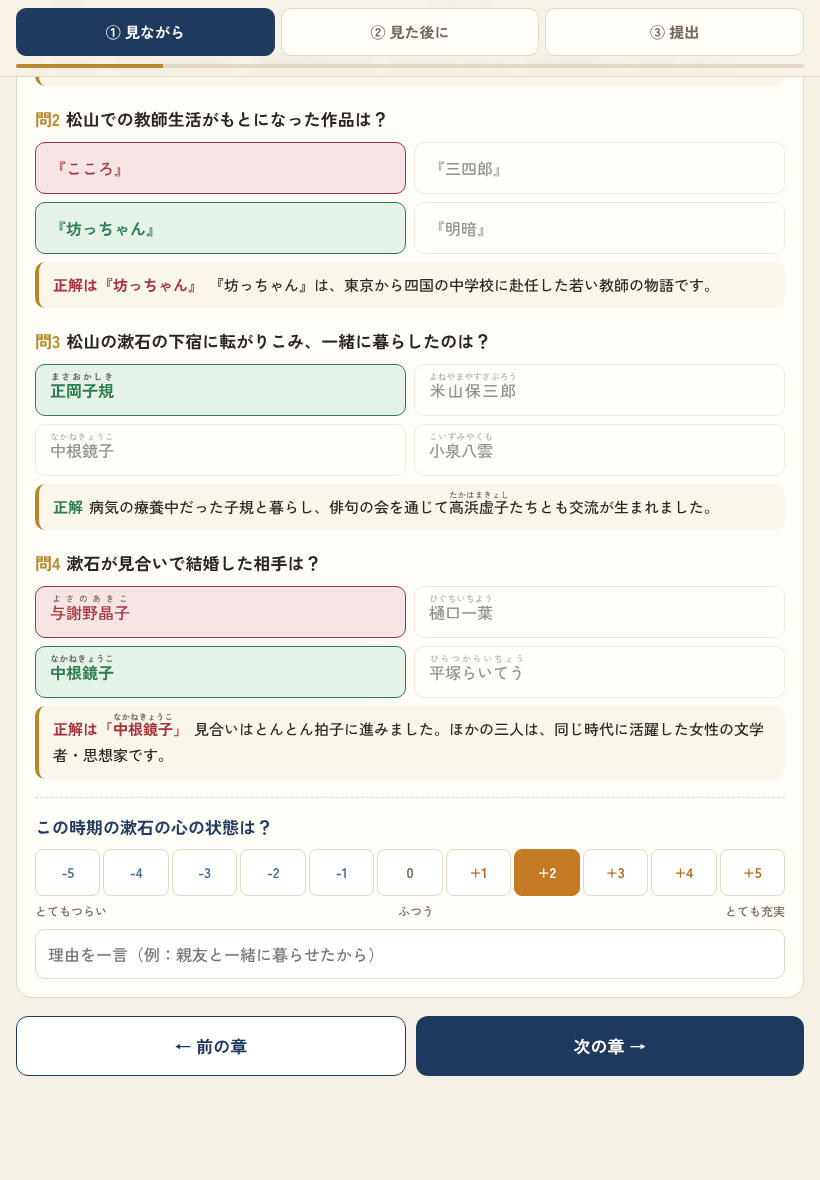
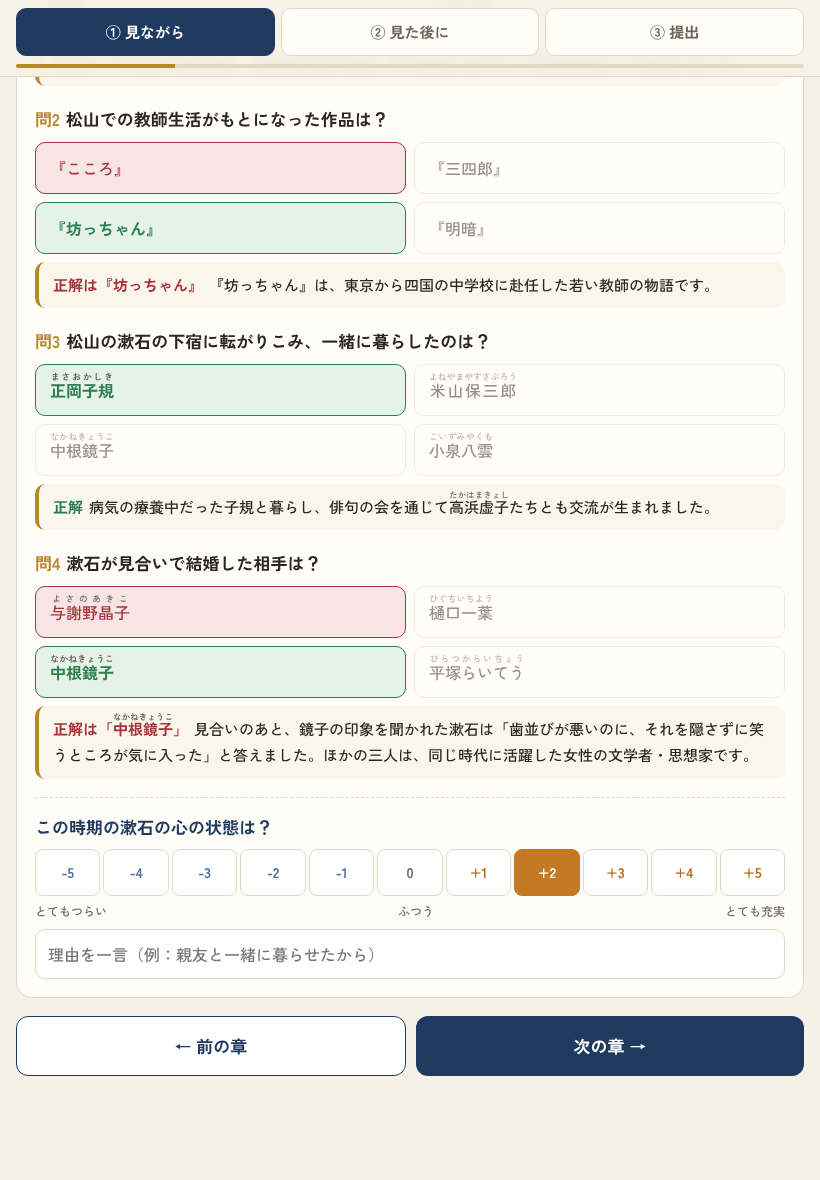
視聴ワーク：字幕と照らし合わせて解説を動画の内容に合わせる
Claude-Session: https://claude.ai/code/session_01WM2jdZUthiEr1RLJLs6qj2

Changed region(s): [[0.2744, 0.6102, 0.9451, 0.6712], [0.122, 0.6102, 0.1829, 0.6712]]

diff --git a/soseki.html b/soseki.html
@@ -210,7 +210,7 @@ const CHAPTERS = [
   {no:1, title:"イントロダクション", from:"0:00", to:"1:46", sec:0, mood:false, qs:[
     {q:"動画の最初に紹介された三つの作品の組み合わせは？",
      c:["『羅生門』『鼻』『蜘蛛の糸』","『吾輩は猫である』『坊っちゃん』『こころ』","『舞姫』『高瀬舟』『山椒大夫』","『走れメロス』『人間失格』『斜陽』"], a:1,
-     n:"『羅生門』は芥川龍之介、『舞姫』は森鷗外、『走れメロス』は太宰治の作品です。芥川は漱石に作品をほめられたことがきっかけで世に出ました。"},
+     n:"『羅生門』は芥川龍之介、『舞姫』は森鷗外、『走れメロス』は太宰治の作品です。漱石は、若き日の芥川の才能にいち早く気づき、励ましの言葉を送っています。"},
     {q:"『吾輩は猫である』の猫のモデルになった、漱石の家の猫について正しいものは？",
      c:["「タマ」と呼ばれてかわいがられた","正岡子規からもらった","名前がつけられていなかった","ロンドンから連れて帰った"], a:2,
      n:"作品の書き出し「吾輩は猫である。名前はまだ無い。」のとおり、実際の猫にも名前がありませんでした。"}
@@ -218,16 +218,16 @@ const CHAPTERS = [
   {no:2, title:"若き日の漱石", from:"1:46", to:"12:26", sec:106, mood:true, qs:[
     {q:"漱石が生まれたのは何年？",
      c:["1867年（慶応3年）","1868年（明治元年）","1872年（明治5年）","1889年（明治22年）"], a:0,
-     n:"江戸時代の最後の年です。翌年が明治元年なので、漱石の年齢は「明治何年」の数字とほぼ同じになります。"},
+     n:"大政奉還があった、江戸時代の最後の年です。翌年が明治元年なので、漱石の年齢は「明治何年」の数字とほぼ同じになります。"},
     {q:"幼いころの漱石について正しいものは？",
      c:["一人っ子として大切に育てられた","生まれてまもなく、よその家に出された","武士の家の長男として期待された","子どものころから英語を習っていた"], a:1,
      n:`里子や養子に出され、家族の愛情を感じにくい少年時代を過ごしました。心の支えは母・${r("千枝","ちえ")}でした。`},
     {q:`漱石に文学の道へ進むことを決めさせた、予備門時代の友人は？`,
      c:[YONE, SHIKI, KYOSHI, r("真鍋嘉一郎","まなべかいちろう")], a:0,
-     n:"「すぐれた文学作品は永遠に残る」という米山の言葉が、漱石の進路を決めました。"},
+     n:"「人の一生は一瞬だが、すぐれた文学作品の命は永遠である」という米山の言葉が、漱石の進路を決めました。"},
     {q:"ペンネーム「漱石」を、もともと使っていたのは誰？",
      c:[YONE, r("森鷗外","もりおうがい"), KYOSHI, SHIKI], a:3,
-     n:`子規から譲り受けた名前です。中国の故事「${r("漱石枕流","そうせきちんりゅう")}」から取られ、「負けおしみが強い・変わり者」という意味があります。`}
+     n:`子規から譲り受けた名前です。中国の故事「${r("漱石枕流","そうせきちんりゅう")}」から取られた名前で、負けおしみが強く頑固なことのたとえです。漱石は、自分の性格にぴったりだと思ったのでしょう。`}
   ]},
   {no:3, title:"松山での漱石", from:"12:26", to:"17:54", sec:746, mood:true, qs:[
     {q:"松山（愛媛県）で漱石が就いた仕事は？",
@@ -241,15 +241,15 @@ const CHAPTERS = [
      n:`病気の療養中だった子規と暮らし、俳句の会を通じて${KYOSHI}たちとも交流が生まれました。`},
     {q:"漱石が見合いで結婚した相手は？",
      c:[r("与謝野晶子","よさのあきこ"), r("樋口一葉","ひぐちいちよう"), KYOKO, r("平塚らいてう","ひらつからいちょう")], a:2,
-     n:"見合いはとんとん拍子に進みました。ほかの三人は、同じ時代に活躍した女性の文学者・思想家です。"}
+     n:"見合いのあと、鏡子の印象を聞かれた漱石は「歯並びが悪いのに、それを隠さずに笑うところが気に入った」と答えました。ほかの三人は、同じ時代に活躍した女性の文学者・思想家です。"}
   ]},
   {no:4, title:"熊本での漱石", from:"17:54", to:"20:33", sec:1074, mood:true, qs:[
     {q:"熊本で漱石が勤めた学校は？",
      c:["東京帝国大学","第五高等学校","松山中学校","早稲田大学"], a:1,
-     n:"「五高」と呼ばれた学校で、教授として安定した生活を送りました。"},
+     n:"「五高」と呼ばれた学校で、教授として安定した生活を送りました。のちの物理学者・寺田寅彦も、ここでの教え子です。"},
     {q:"熊本時代、若くして亡くなったことを知り、漱石が自分の生き方を問い直すきっかけになった友人は？",
      c:[SHIKI, KYOSHI, YONE, YAKUMO], a:2,
-     n:"文学の道を勧めてくれた米山は、まだ20代の若さで亡くなりました。"}
+     n:"文学の道を勧めてくれた米山は、29歳の若さで、腸チフスで亡くなりました。「米山が期待したような生き方を、自分はできているのか」と漱石は自分に問いかけます。"}
   ]},
   {no:5, title:"ロンドンでの漱石", from:"20:33", to:"26:18", sec:1233, mood:true, qs:[
     {q:"漱石はどのような立場でイギリスへ渡った？",
@@ -282,7 +282,7 @@ const CHAPTERS = [
      n:"「修善寺の大患」と呼ばれます。この体験のあと、漱石の作品は人間の内面をより深く見つめるものになっていきます。"},
     {q:"このころ漱石を襲った家族の悲しみは？",
      c:[`幼い末娘・${r("雛子","ひなこ")}の死`,"妻との離婚","家の火事","兄の破産"], a:0,
-     n:"漱石はこの悲しみを、のちの作品の中にも書きとめています。"}
+     n:"雛子はまだ2歳でした。漱石はその死を、のちに『彼岸過迄』の中の「雨の降る日」という章に書きとめています。"}
   ]},
   {no:8, title:"漱石の最後", from:"36:21", to:"46:08", sec:2181, mood:true, qs:[
     {q:"自分の過去や弱さを見つめて書いた、自伝的な作品は？",
@@ -293,7 +293,7 @@ const CHAPTERS = [
      n:"「天に則って私を去る」、つまり小さな自分へのこだわりを捨てて、大きな自然の道理に従うという意味です。"},
     {q:"漱石の最期として正しいものは？",
      c:["1912年、明治の終わりとともに亡くなった",`1916年（大正5年）、『${r("明暗","めいあん")}』を書いている途中で亡くなった`,"1926年、すべての作品を書き終えて亡くなった","1905年、『猫』を発表した直後に亡くなった"], a:1,
-     n:"49歳でした。『明暗』は未完のまま残されています。"}
+     n:"49歳でした。原稿用紙に連載の番号「189」を書いたまま、机に突っ伏していたといいます。『明暗』は未完のまま残されました。"}
   ]}
 ];
 
